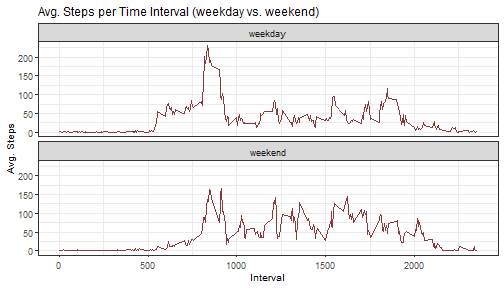
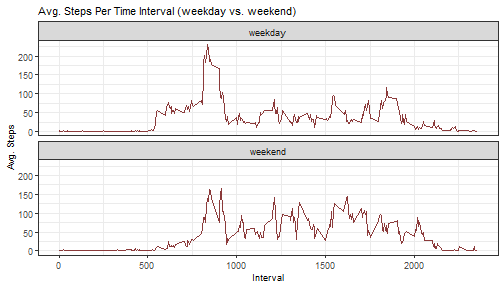
Final commit

diff --git a/PA1_template.html b/PA1_template.html
@@ -245,10 +245,10 @@ activity &lt;- read_csv(&quot;./data/activity.csv&quot;)
         geom_histogram(binwidth = 1000, 
                        fill = &quot;indianred1&quot;, color = &quot;indianred4&quot;) + 
         theme_bw() +
-        labs(title = &quot;Total Steps per Day&quot;, x = &quot;Steps&quot;, y = &quot;Count&quot;)
+        labs(title = &quot;Total Steps Per Day&quot;, x = &quot;Steps&quot;, y = &quot;Count&quot;)
 </code></pre>
 
[2 lines of base64/hex data omitted]
 
 <p>Calculate the mean and median total number of steps taken per day.</p>
 
@@ -275,11 +275,11 @@ averaged across all days.</p>
     ggplot(mapping = aes(x = interval, y = steps_mean)) +
         geom_line(color = &quot;indianred4&quot;, size = 0.5) + 
         theme_bw() +
-        labs(title = &quot;Avg. Steps per Time Interval&quot;,
+        labs(title = &quot;Avg. Steps Per Time Interval&quot;,
              x = &quot;Interval&quot;, y = &quot;Avg. Steps&quot;)
 </code></pre>
 
[2 lines of base64/hex data omitted]
 
 <p>Calculate the interval with the maximum avg. number of steps.</p>
 
@@ -328,11 +328,11 @@ temp %&gt;%
         geom_histogram(binwidth = 1000, 
                        fill = &quot;indianred1&quot;, color = &quot;indianred4&quot;) + 
         theme_bw() +
-        labs(title = &quot;Total Steps per Day (NA&#39;s Imputed)&quot;,
+        labs(title = &quot;Total Steps Per Day (NAs Imputed)&quot;,
              x = &quot;Steps&quot;, y = &quot;Count&quot;)
 </code></pre>
 
[2 lines of base64/hex data omitted]
 
 <pre><code class="r">steps_total_mean &lt;- format(mean(temp$steps_total), scientific = FALSE)
 steps_total_median &lt;- format(median(temp$steps_total), scientific = FALSE)
@@ -371,12 +371,12 @@ activity_imputed %&gt;%
         geom_line(size = 0.5, color = &quot;indianred4&quot;) + 
         facet_wrap( ~ daytype, nrow = 2) +
         theme_bw() +
-        theme(title = element_text(size = rel(0.9))) +
-        labs(title = &quot;Avg. Steps per Time Interval (weekday vs. weekend)&quot;,
+        theme(title = element_text(size = rel(0.85))) +
+        labs(title = &quot;Avg. Steps Per Time Interval (weekday vs. weekend)&quot;,
              x = &quot;Interval&quot;, y = &quot;Avg. Steps&quot;)
 </code></pre>
 
[2 lines of base64/hex data omitted]
 
 </body>
 

diff --git a/PA1_template.md b/PA1_template.md
@@ -59,7 +59,7 @@ activity %>%
         geom_histogram(binwidth = 1000, 
                        fill = "indianred1", color = "indianred4") + 
         theme_bw() +
-        labs(title = "Total Steps per Day", x = "Steps", y = "Count")
+        labs(title = "Total Steps Per Day", x = "Steps", y = "Count")
 ```
 
 ![plot of chunk daily_steps_hist](figure/daily_steps_hist-1.png)
@@ -96,7 +96,7 @@ activity %>%
     ggplot(mapping = aes(x = interval, y = steps_mean)) +
         geom_line(color = "indianred4", size = 0.5) + 
         theme_bw() +
-        labs(title = "Avg. Steps per Time Interval",
+        labs(title = "Avg. Steps Per Time Interval",
              x = "Interval", y = "Avg. Steps")
 ```
 
@@ -161,7 +161,7 @@ temp %>%
         geom_histogram(binwidth = 1000, 
                        fill = "indianred1", color = "indianred4") + 
         theme_bw() +
-        labs(title = "Total Steps per Day (NA's Imputed)",
+        labs(title = "Total Steps Per Day (NAs Imputed)",
              x = "Steps", y = "Count")
 ```
 
@@ -211,8 +211,8 @@ activity_imputed %>%
         geom_line(size = 0.5, color = "indianred4") + 
         facet_wrap( ~ daytype, nrow = 2) +
         theme_bw() +
-        theme(title = element_text(size = rel(0.9))) +
-        labs(title = "Avg. Steps per Time Interval (weekday vs. weekend)",
+        theme(title = element_text(size = rel(0.85))) +
+        labs(title = "Avg. Steps Per Time Interval (weekday vs. weekend)",
              x = "Interval", y = "Avg. Steps")
 ```
 
